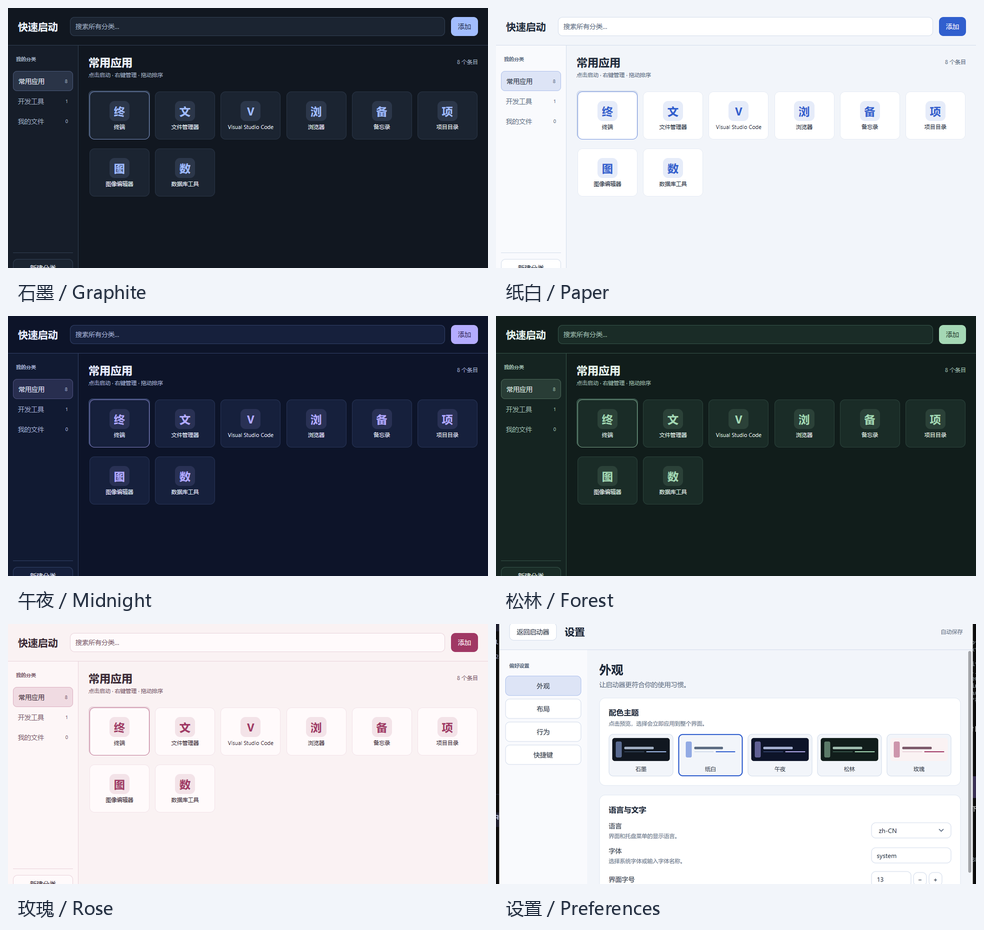
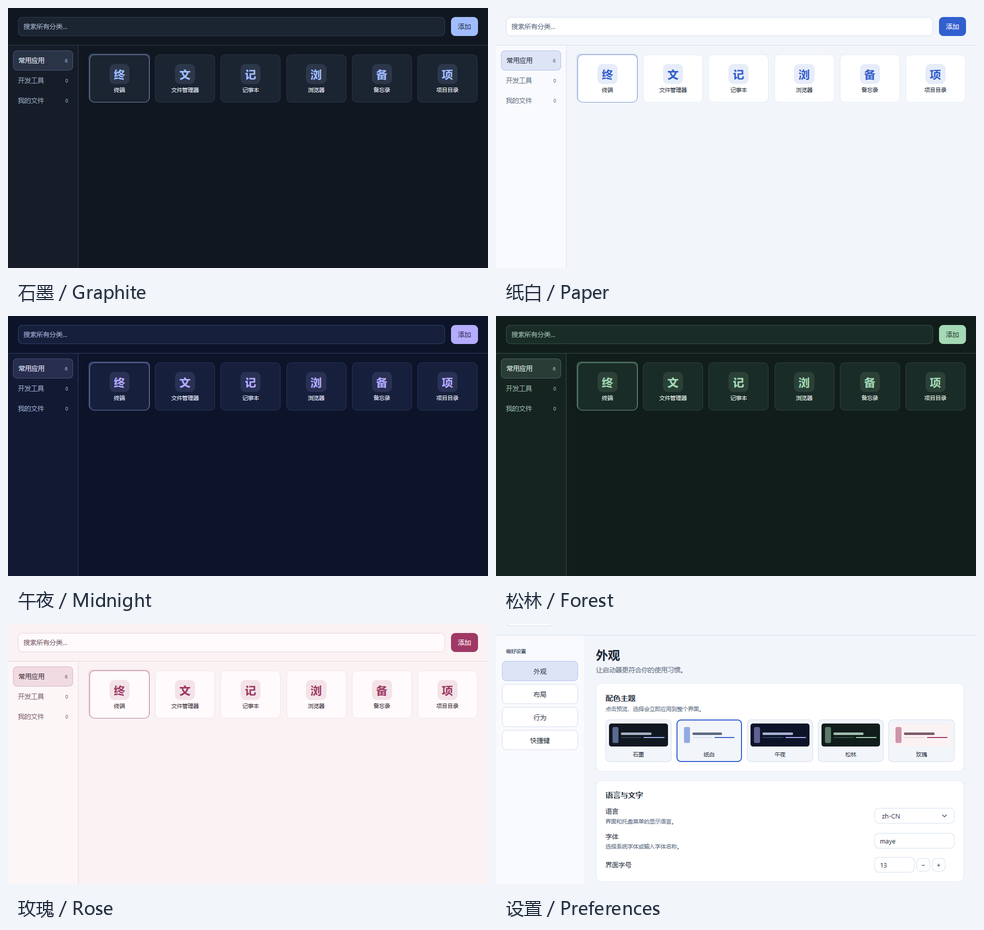
fix(ui): remove redundant launcher headings and idle status bar

diff --git a/internal/launcher/view.go b/internal/launcher/view.go
@@ -33,7 +33,6 @@ func (a *App) view(c *ui.Context) {
 	} else {
 		ui.Column(c).Fill().Children(func() {
 			ui.Row(c).Padding(18, 20).Gap(12).AlignItems(ui.Center).Children(func() {
-				ui.Text(c, a.text("快速启动", "Quickstart")).FontSize(20).Bold().Margin(0, 12, 0, 0)
 				input := ui.TextInput(c.Key("search"), &a.query).Bind(&a.search).Placeholder(a.text("搜索所有分类…", "Search all groups…")).Label(a.text("搜索", "Search")).Grow(1).Height(38)
 				if input.Changed() {
 					a.filter()
@@ -47,24 +46,15 @@ func (a *App) view(c *ui.Context) {
 			ui.Divider(c)
 			if ui.Split(c, &a.sidebar, func() { a.sidebarView(c) }, func() {
 				ui.Column(c).Fill().Children(func() {
-					title := a.text("搜索结果", "Search results")
-					if a.query == "" {
-						if g := a.state.Group(a.state.ActiveGroupID); g != nil {
-							title = g.Name
-						}
+					if strings.TrimSpace(a.query) != "" {
+						ui.Text(c, fmt.Sprintf(a.text("搜索结果（%d）", "Search results (%d)"), len(a.results))).FontSize(11).TextColor(t.TextMuted).Padding(12, 20, 0, 20)
 					}
-					ui.Row(c).Padding(18, 20, 4, 20).Gap(10).Children(func() {
-						ui.Text(c, title).FontSize(22).Bold().SingleLine().Grow(1)
-						ui.Text(c, fmt.Sprintf(a.text("%d 个条目", "%d items"), len(a.results))).FontSize(11).TextColor(t.TextMuted)
-					})
-					ui.Text(c, a.text("点击启动 · 右键管理 · 拖动排序", "Click to launch · Right click to manage · Drag to arrange")).FontSize(11).TextColor(t.TextMuted).Padding(0, 20, 8, 20)
 					a.gridView(c)
 				})
 			}).Grow(1).Changed() {
 				a.state.Settings.SidebarWidth = float64(a.sidebar)
 				a.changed()
 			}
-			ui.Divider(c)
 			a.statusView(c)
 		})
 	}
@@ -113,7 +103,6 @@ func (a *App) sidebarView(c *ui.Context) {
 		}
 	})
 	side.Children(func() {
-		ui.Text(c, a.text("我的分类", "LIBRARY")).FontSize(10).Bold().TextColor(c.Theme().TextMuted).Padding(10, 6)
 		a.groups.Key = func(i int) any { return a.state.Groups[i].ID }
 		ui.List(c, &a.groups, len(a.state.Groups), func(i int) {
 			g := a.state.Groups[i]

diff --git a/internal/launcher/launcher_test.go b/internal/launcher/launcher_test.go
@@ -148,3 +148,43 @@ func TestNativeViewSearchGroupsAndEditor(t *testing.T) {
 		t.Fatal("behavior checkbox did not save")
 	}
 }
+
+func TestContextualSearchAndMessages(t *testing.T) {
+	for _, width := range []int{560, 960} {
+		a := fixture()
+		tt := ui.NewTester(a.view, width, 380)
+		if tt.HasText("Dismiss") {
+			t.Fatal("idle view must not reserve a message bar")
+		}
+		if err := tt.Click("Search"); err != nil {
+			t.Fatal(err)
+		}
+		tt.Type("beta")
+		if !tt.HasText("Search results (1)") || !tt.HasText("Beta Tool") {
+			t.Fatalf("global search context is missing: %q", tt.Texts())
+		}
+		a.message = "Hotkey unavailable"
+		tt.Frame()
+		if !tt.HasText(a.message) {
+			t.Fatal("errors must remain visible")
+		}
+		if err := tt.Click("Settings"); err != nil {
+			t.Fatal(err)
+		}
+		if !tt.HasText(a.message) {
+			t.Fatal("settings must preserve the error message")
+		}
+		if err := tt.Click("Dismiss"); err != nil {
+			t.Fatal(err)
+		}
+		if a.message != "" || tt.HasText("Dismiss") {
+			t.Fatal("dismissing a message must remove the bar")
+		}
+		if err := tt.Click("Close"); err != nil {
+			t.Fatal(err)
+		}
+		if !tt.HasText("Beta Tool") || a.query != "beta" {
+			t.Fatal("returning to the launcher must preserve search")
+		}
+	}
+}

diff --git a/internal/launcher/settings.go b/internal/launcher/settings.go
@@ -1,8 +1,6 @@
 package launcher
 
 import (
-	"fmt"
-
 	"github.com/egoist/mygo"
 	"github.com/egoist/mygo/ui"
 )
@@ -62,7 +60,6 @@ func (a *App) settingsView(c *ui.Context) {
 				})
 			})
 		})
-		ui.Divider(c)
 		a.statusView(c)
 	})
 }
@@ -258,18 +255,14 @@ func (a *App) settingNumber(c *ui.Context, label string, value *float64, min, ma
 }
 
 func (a *App) statusView(c *ui.Context) {
+	if a.message == "" {
+		return
+	}
+	ui.Divider(c)
 	ui.Row(c).Padding(8, 20).Gap(12).Children(func() {
-		msg := a.message
-		if msg == "" {
-			msg = fmt.Sprintf(a.text("%d 个分类 · %d 个条目", "%d groups · %d items"), len(a.state.Groups), len(a.results))
-		}
-		ui.Text(c, msg).FontSize(11).TextColor(c.Theme().TextMuted).Grow(1).SingleLine().Tooltip(msg)
-		if a.message != "" && ui.Button(c, a.text("清除提示", "Dismiss")).Clicked() {
+		ui.Text(c, a.message).FontSize(11).TextColor(c.Theme().TextMuted).Grow(1).SingleLine().Tooltip(a.message)
+		if ui.Button(c, a.text("清除提示", "Dismiss")).Clicked() {
 			a.message = ""
-		}
-		ui.Text(c, a.themeName()).FontSize(11).TextColor(c.Theme().TextMuted)
-		if a.registeredHotkey != "" {
-			ui.Text(c, a.registeredHotkey).FontSize(11).TextColor(c.Theme().TextMuted)
 		}
 	})
 }

diff --git a/internal/launcher/theme.go b/internal/launcher/theme.go
@@ -54,12 +54,3 @@ func syncNativeTheme(id string) {
 		mygo.Theme.SetSource(source)
 	}
 }
-
-func (a *App) themeName() string {
-	for _, theme := range themes {
-		if theme.id == a.state.Settings.Theme {
-			return a.text(theme.zh, theme.en)
-		}
-	}
-	return a.text(themes[0].zh, themes[0].en)
-}

diff --git a/docs/FEATURES.md b/docs/FEATURES.md
@@ -52,7 +52,8 @@ Windows 保留原始参数引号和反斜杠，修复旧版将反斜杠当作通
 验证日期：2026-10-17。所有启动验证均使用临时测试数据库，没有打开或改写用户的真实启动器数据库，也没有自动启动其中的条目。
 
 - Windows：`mise exec go@1.27.1 -- go test -race ./...`、`go vet ./...` 通过；覆盖分类/搜索、编辑器、命令、保存快照、保存失败重试、退出保存和普通关闭、无召回入口时的隐藏保护。
-- Windows 实际原生窗口：中文和图标渲染、200% 缩放下的主界面与设置页、即时切换纸白配色及标题栏、退出重启后保留主题通过。X 隐藏并保留进程、托盘恢复、实际选择托盘“退出”后正常结束进程通过；截图见 `windows-preview.png`、`settings-preview.png`。
+- Windows 实际原生窗口：中文和图标渲染、200% 缩放下的主界面与设置页、即时切换纸白配色及标题栏、退出重启后保留主题通过。X 隐藏并保留进程、托盘恢复、实际选择托盘“退出”后正常结束进程通过。当前布局预览 `windows-preview.png`、`settings-preview.png` 使用 MyGo 测试器与示例数据渲染。
+- 界面精简回归：移除重复标题、操作说明、主区域计数和空闲底栏；560 与 960 宽度下跨分类搜索结果数量、错误提示跨页面显示、清除后收起提示栏、返回后保留查询均通过。
 - 五主题回归：主题合法值归一化、SQLite 保存及重载通过；正文、说明、按钮文字与背景的对比度均不低于 4.5:1。960×620 与 560×380 下依次切换全部主题、设置分组导航、返回主界面、点击开关标签及键盘空格切换通过。
 - MyGo 无窗口测试：实际输入搜索、Esc 清空、按钮新增分类、右键重命名、编辑保存、设置行为开关通过。
 - 平台启动测试：在测试子进程中核对参数及环境变量；Windows .lnk 使用临时快捷方式验证；Linux .desktop 的 Exec、占位符、工作目录和环境变量通过。

diff --git a/README.md b/README.md
@@ -2,17 +2,17 @@
 
 使用 [MyGo](https://github.com/egoist/mygo) 原生 Go 组件重构的桌面快速启动器，支持 Windows、macOS 和 Linux。界面采用搜索栏、分类侧栏、卡片网格和原生弹层；不依赖 Tauri、浏览器或 WebView。
 
-![Windows 原生界面](docs/windows-preview.png)
+![主界面（示例数据）](docs/windows-preview.png)
 
 支持分类增删改、跨分类名称搜索、应用/文件/目录启动、命令、参数和逐项环境变量、系统应用选择、文件拖入、卡片排序和跨分类移动。保留中英文、字体、卡片与侧栏尺寸、窗口置顶、启动时隐藏、相对路径、窗口位置记忆、全局快捷键和托盘。完整对照及平台差异见 [功能与验证记录](docs/FEATURES.md)。
 
-界面提供 **石墨、纸白、午夜、松林、玫瑰** 五种主题，覆盖深浅配色；在设置中点击主题预览即可即时应用并自动保存，系统标题栏同步切换深浅样式。主界面以搜索、分类和应用网格组织内容，显示分类数量、当前分类与搜索状态。
+界面提供 **石墨、纸白、午夜、松林、玫瑰** 五种主题，覆盖深浅配色；在设置中点击主题预览即可即时应用并自动保存，系统标题栏同步切换深浅样式。主界面以搜索、分类和应用网格组织内容，分类名称与条目数量集中显示在侧栏；搜索时显示匹配数量，提示栏仅在有消息时出现。
 
 设置采用独立页面，按 **外观、布局、行为、快捷键** 分组。常规窗口使用左侧导航，窄窗口改用顶部标签；尺寸设置提供卡片预览。除全局快捷键需要点击“应用”验证注册结果外，其他设置自动保存。
 
 ![设置界面](docs/settings-preview.png)
 
-五种主题的测试数据预览见 [主题对照图](docs/themes-preview.png)。
+五种主题见 [主题对照图](docs/themes-preview.png)。以上预览使用 MyGo 原生界面测试器与示例数据渲染。
 
 ## 直接运行
 
